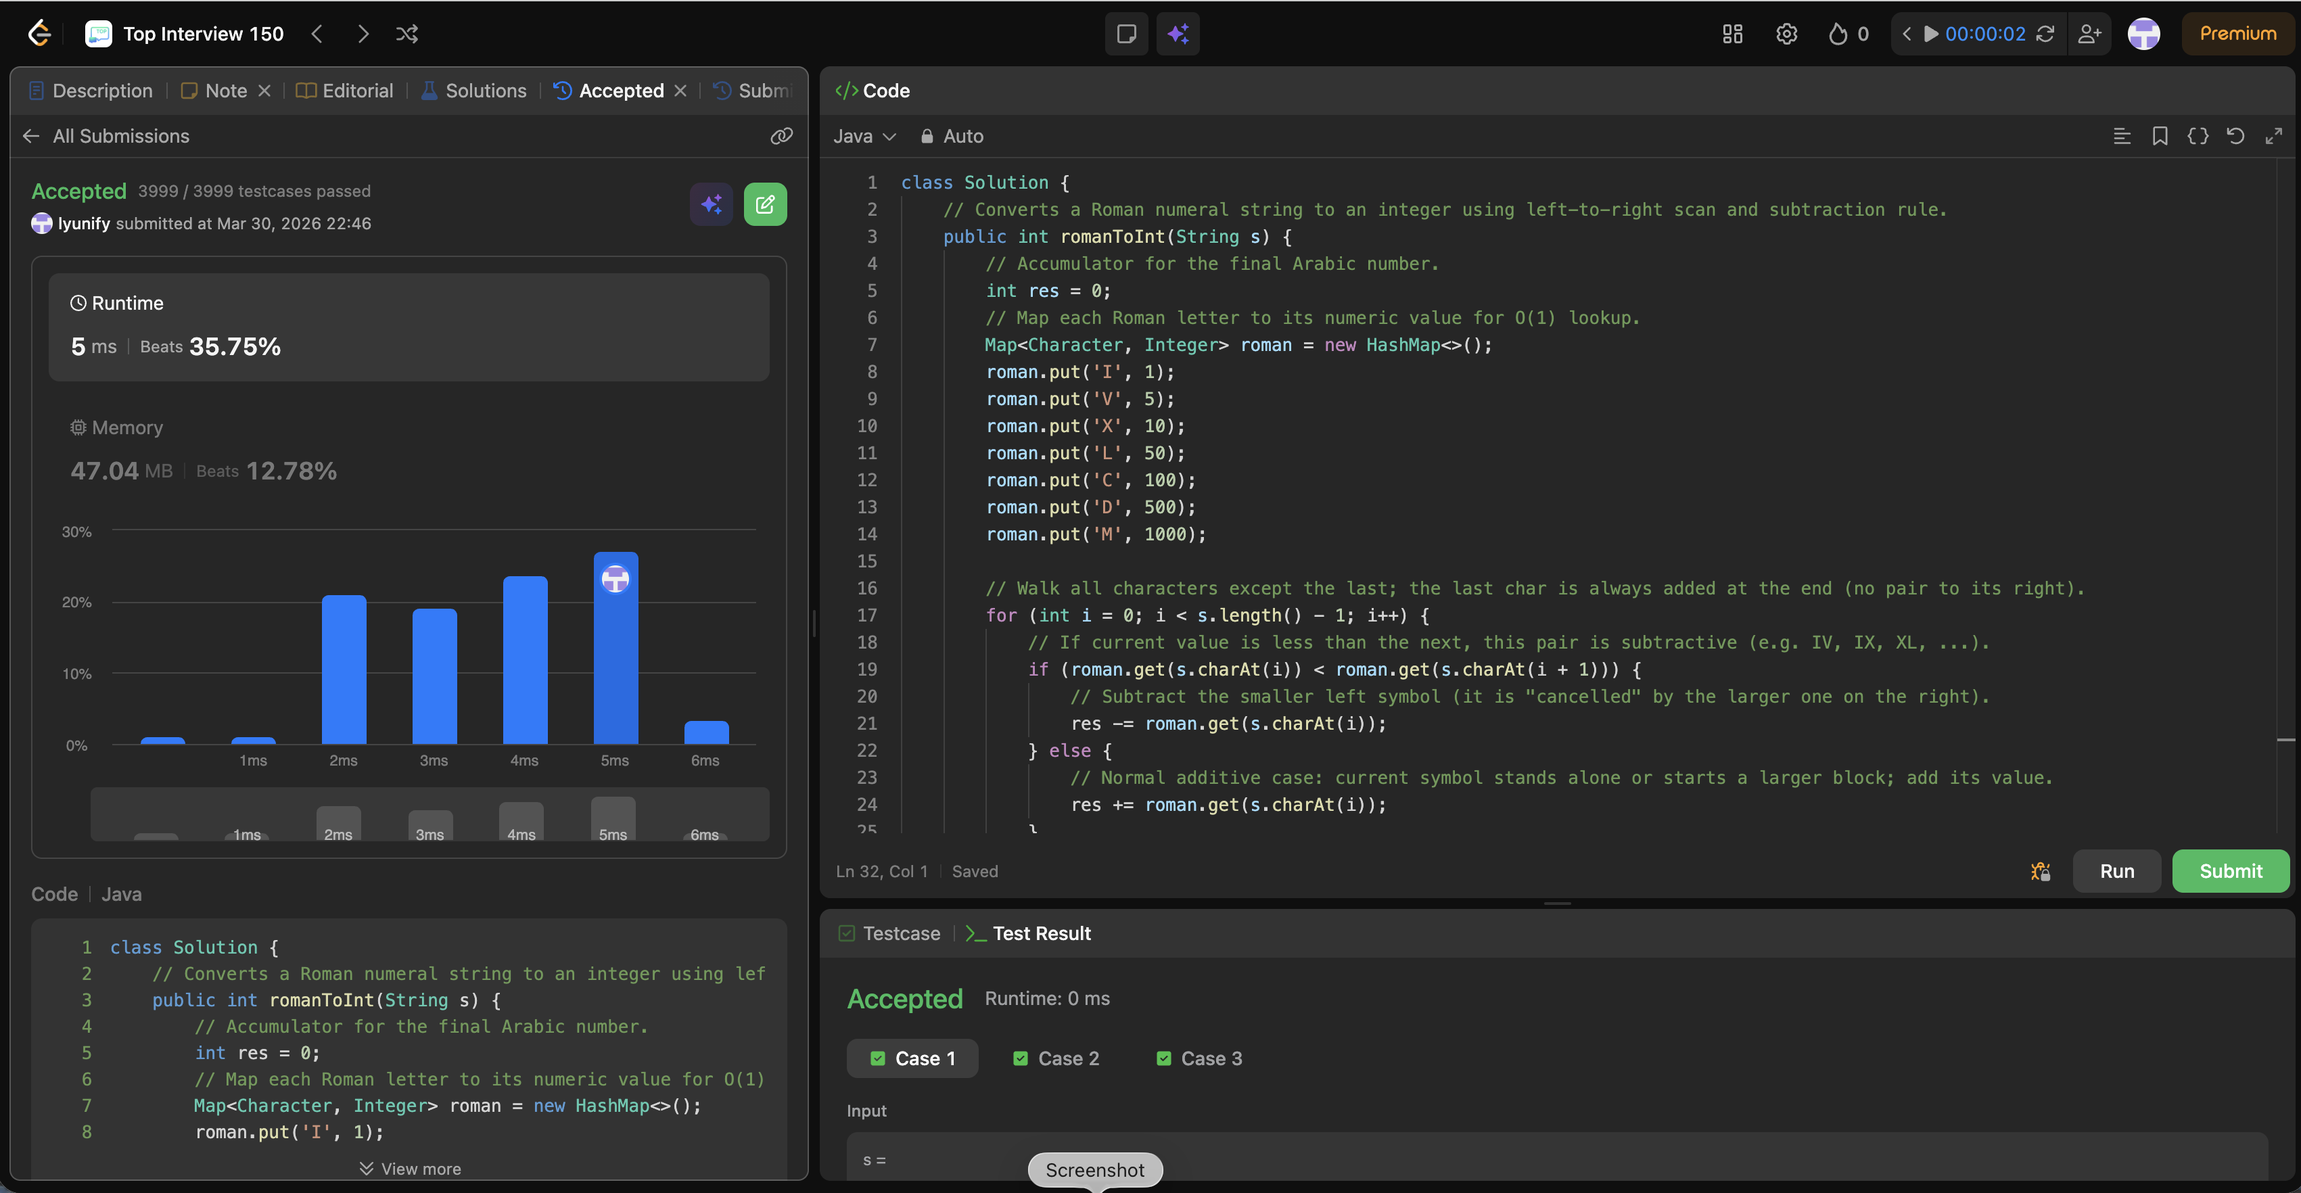
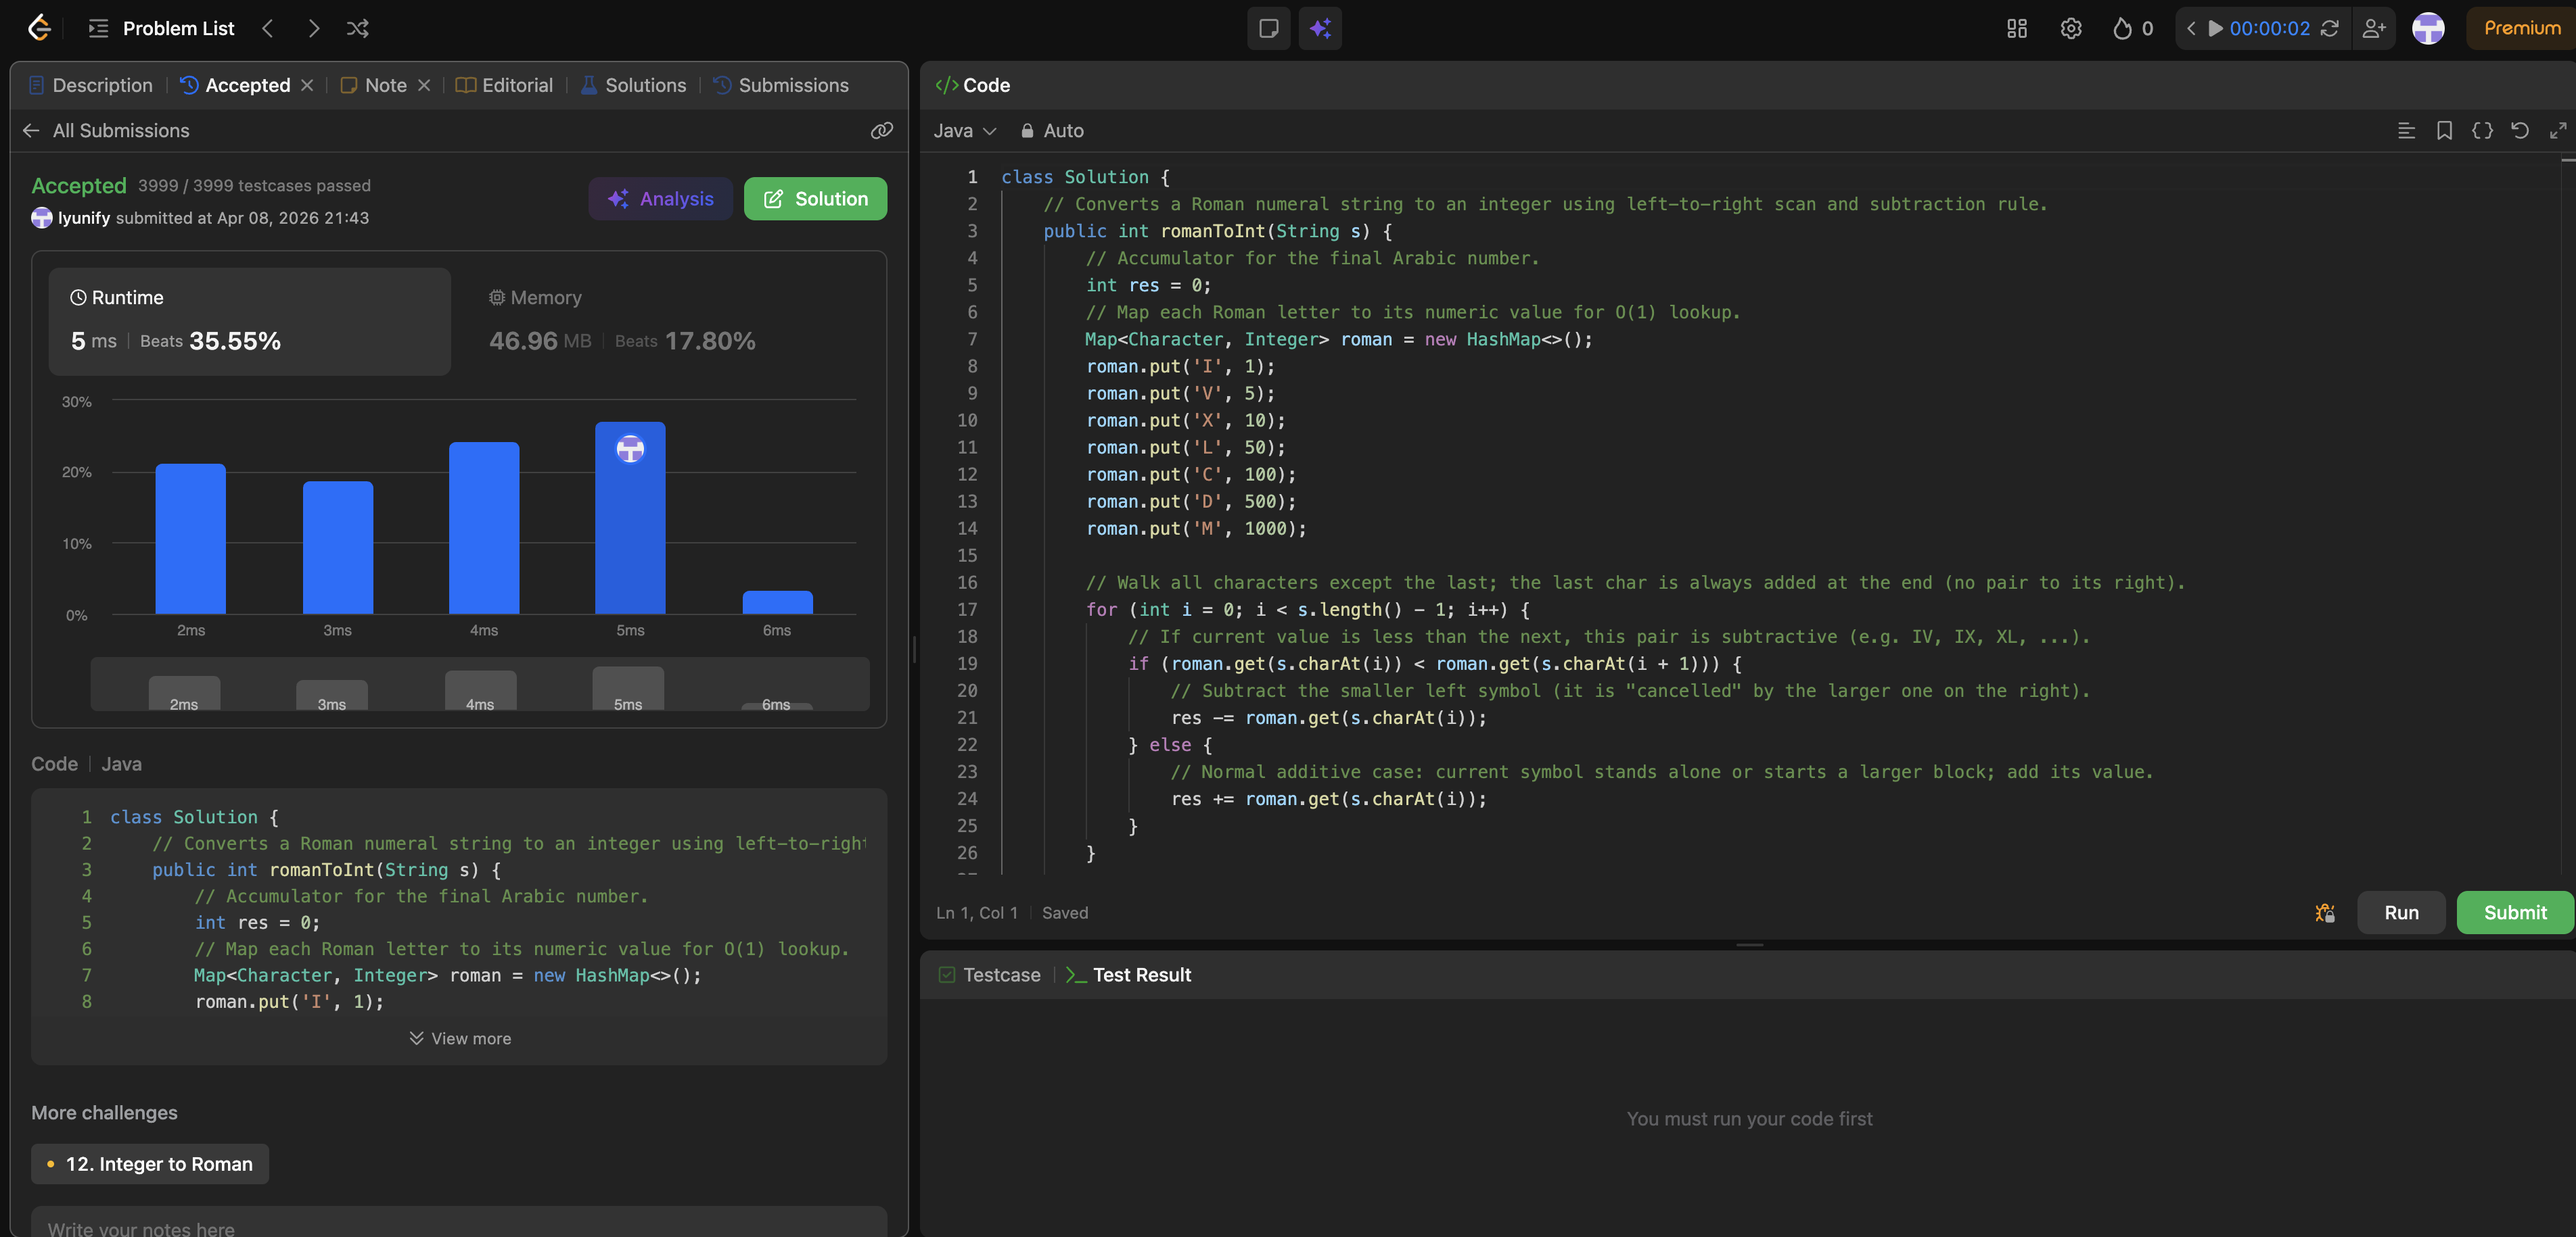
note: 0013-roman-to-integer (2026-04-08)

diff --git a/string/0013-roman-to-integer.md b/string/0013-roman-to-integer.md
@@ -1,0 +1,81 @@
+# 13. Roman to Integer
+
+**Difficulty**: Easy<br>
+**Primary Tag**: string<br>
+**Secondary Tags**: hash-table, math<br>
+**LeetCode Link**: https://leetcode.com/problems/roman-to-integer/
+
+---
+
+## Problem Summary
+
+Given a Roman numeral string, convert it to an integer. Roman numerals use additive notation except for six subtractive forms (IV, IX, XL, XC, CD, CM) where a smaller symbol before a larger one means subtraction.
+
+## Screenshot
+
+![0013-roman-to-integer](../assets/screenshots/0013-roman-to-integer.png)
+
+---
+
+## My Mistake(s)
+
+- **Off-by-one / double counting**: Using `for (i = 0; i < s.length(); i++)` and then still adding the last character again afterward, or stopping early and forgetting to add it at all. The last character must be added exactly once.
+- **Wrong operand in subtraction**: For IV, you subtract I (1), not V (5). The smaller left symbol is the one subtracted; the right symbol is handled normally when its own position is processed.
+- **Misunderstanding the rule**: Not every small-before-large combination is valid — only the six standard subtractive forms are legal. LeetCode guarantees valid input, but misunderstanding leads to fragile code.
+- **Naive summation**: Simply adding every symbol value without lookahead gives IV = 1 + 5 = 6 instead of 4. Some form of lookahead is necessary.
+- **Lookup table errors**: Confusing L (50) with C (100) or D (500) with M (1000) produces code that looks reasonable but fails many test cases — especially deceptive because a few simple manual examples may still pass.
+- **Empty string**: Not relevant for LeetCode (input is guaranteed valid and nonempty), but in production code it is safer to guard against `s.length() == 0` before accessing the last character.
+
+## Key Insight
+
+**Subtractive pairs are local decisions.** When scanning left to right, compare `value(s[i])` with `value(s[i+1])`. If `s[i] < s[i+1]`, subtract `s[i]`; otherwise add it. This single rule covers all six subtractive forms without special-casing each one.
+
+**The last character is special.** Since the rule depends on a right neighbor, the loop runs only from index 0 to `length - 2`, and the last character's value is added unconditionally after the loop. This also handles the single-character edge case: the loop doesn't run, and the result is just that one symbol's value.
+
+Use a `HashMap` for the seven-symbol lookup table — it keeps the code readable and provides O(1) access. A `switch` on `char` works too but offers no meaningful benefit here.
+
+## Correct Approach
+
+1. Build a map: `I→1, V→5, X→10, L→50, C→100, D→500, M→1000`.
+2. Loop `i` from 0 to `s.length() - 2`. If `roman[s[i]] < roman[s[i+1]]`, subtract `roman[s[i]]`; else add it.
+3. After the loop, add the value of the last character.
+4. Return the accumulated result.
+
+```java
+class Solution {
+    public int romanToInt(String s) {
+        int res = 0;
+        Map<Character, Integer> roman = new HashMap<>();
+        roman.put('I', 1);
+        roman.put('V', 5);
+        roman.put('X', 10);
+        roman.put('L', 50);
+        roman.put('C', 100);
+        roman.put('D', 500);
+        roman.put('M', 1000);
+
+        for (int i = 0; i < s.length() - 1; i++) {
+            if (roman.get(s.charAt(i)) < roman.get(s.charAt(i + 1))) {
+                res -= roman.get(s.charAt(i));
+            } else {
+                res += roman.get(s.charAt(i));
+            }
+        }
+
+        // Always add the last character (no right neighbor to compare against)
+        res += roman.get(s.charAt(s.length() - 1));
+        return res;
+    }
+}
+```
+
+**Time Complexity**: O(n)<br>
+**Space Complexity**: O(1) — lookup table has constant size (7 entries)
+
+---
+
+## Practice History
+
+| Date | Outcome | Notes |
+|------|---------|-------|
+| 2026-04-08 | ✅ | Solved after review — key insight: subtract s[i] when it is less than s[i+1]; loop to length-2 then add last char |
